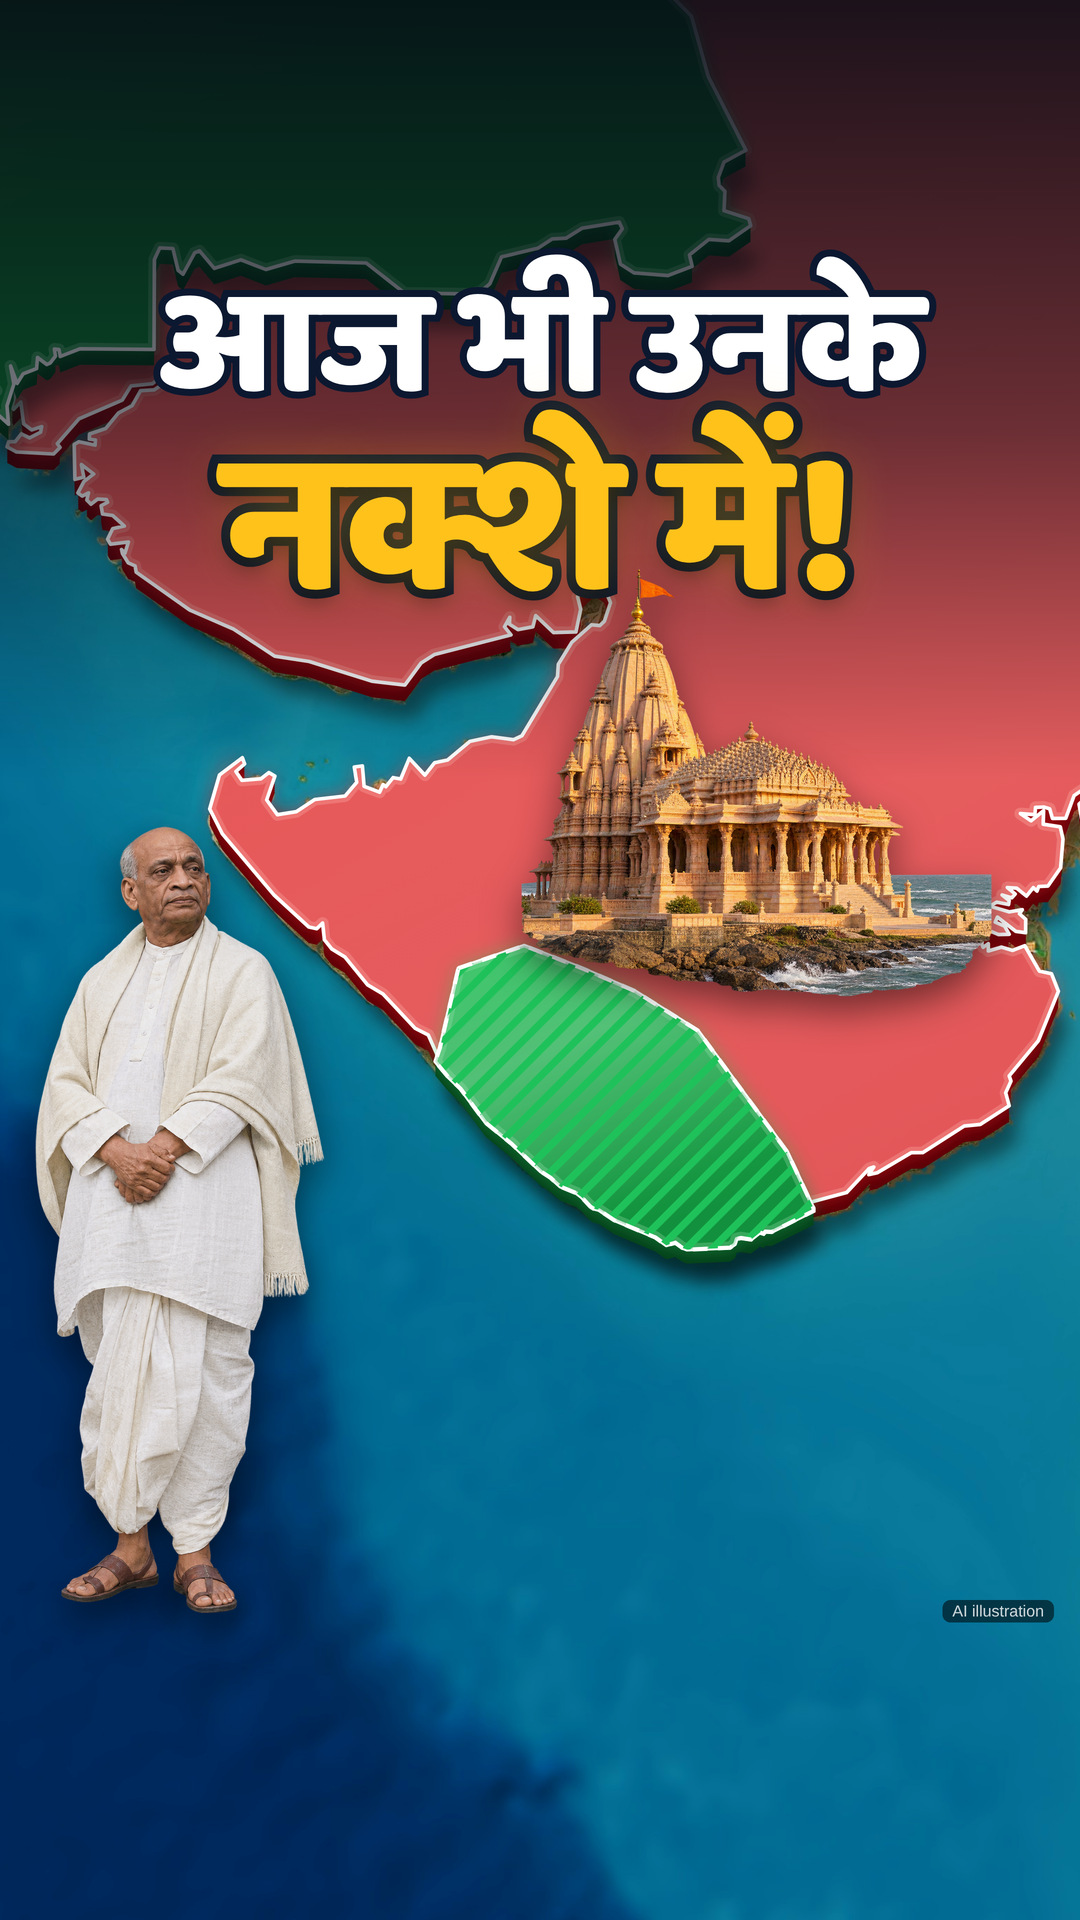
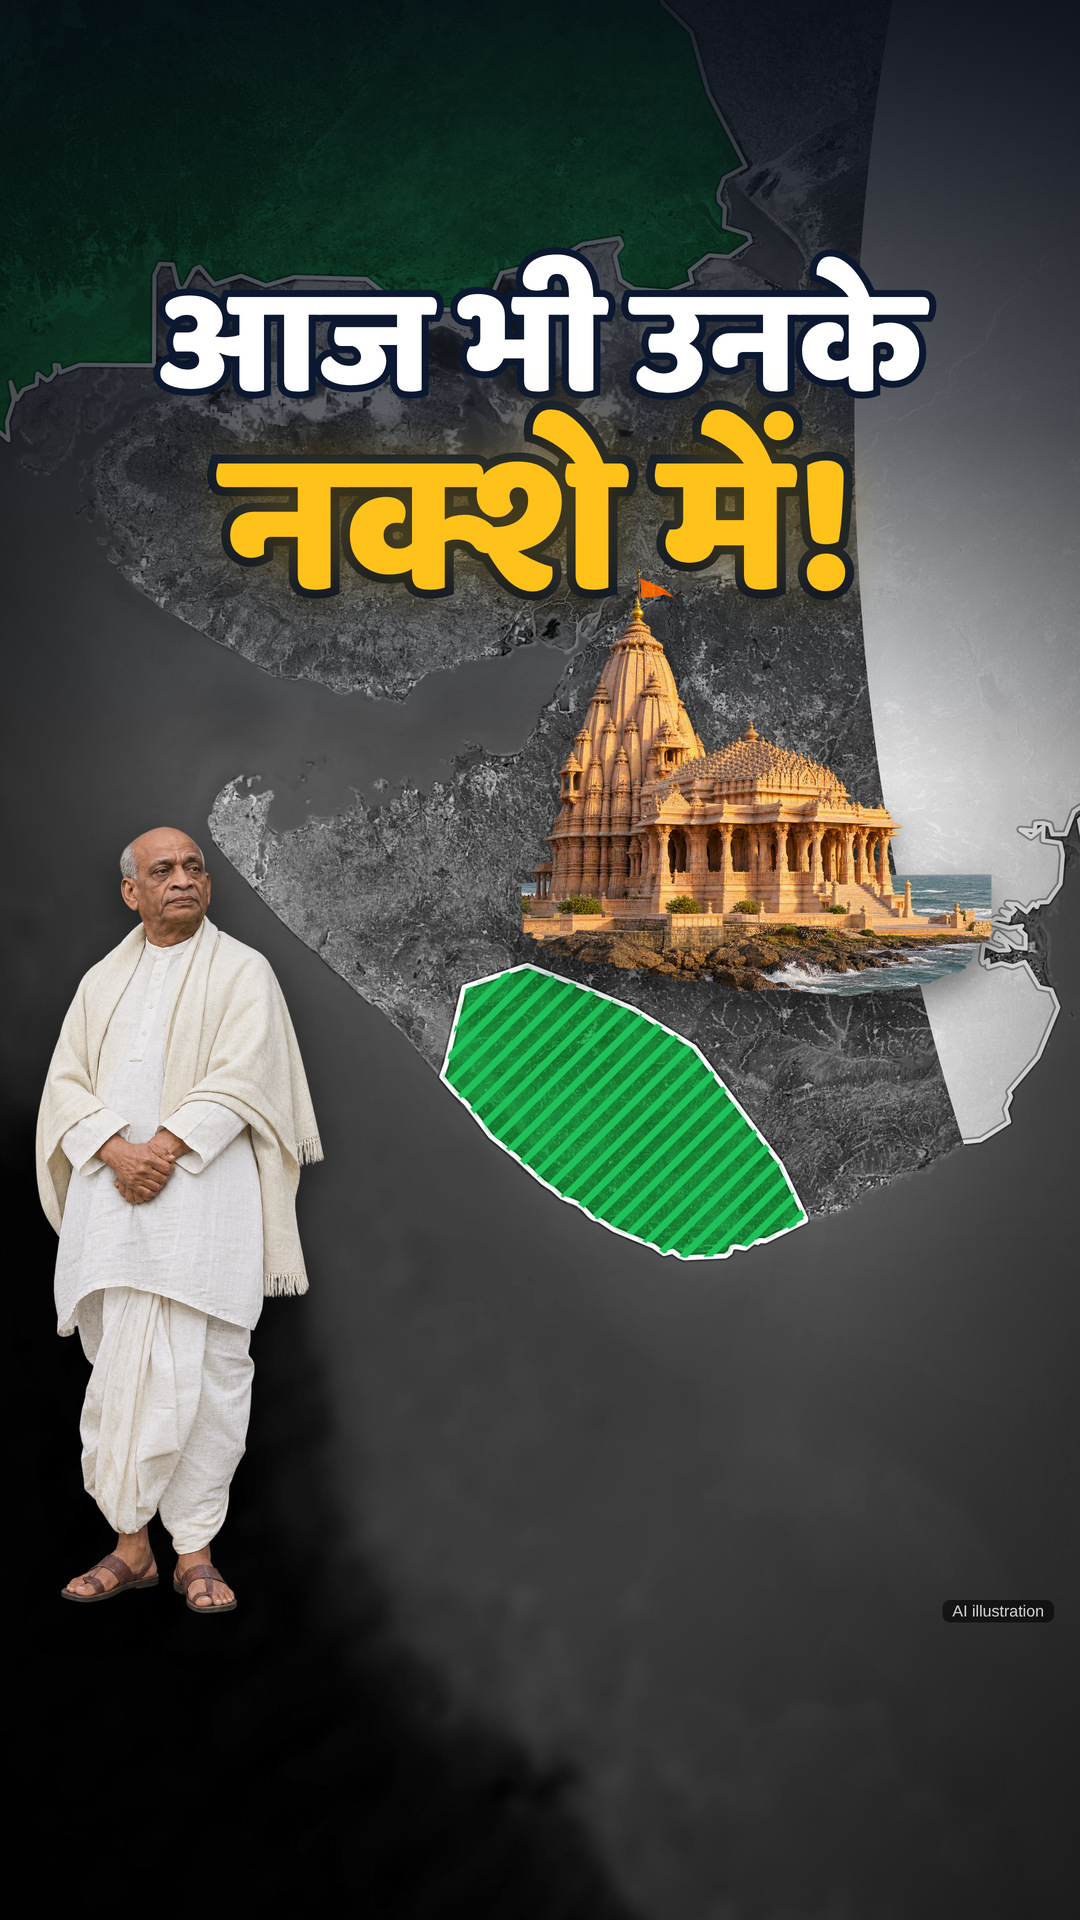
Junagadh v2: thumbnail in the documentary style, upload kit for the 4K30 master
Claude-Session: https://claude.ai/code/session_01DMZ7CFPTajKZajZsT4vn8D

diff --git a/src/junagadh/edit/Cover.tsx b/src/junagadh/edit/Cover.tsx
@@ -3,11 +3,12 @@ import { AbsoluteFill, registerRoot, Composition } from 'remotion';
 import { GEO, merc, ringsD, toS } from './cam';
 import { UI, useFonts } from './font';
 import { MapLayers } from './Map';
-import { Cut, Slab } from './Studio';
+import { Cut } from './Studio';
+import { FlatHL } from './Doc';
 
 /**
- * The cover for YouTube Shorts and Instagram Reels: Gujarat on the satellite map, Junagadh as a raised Pakistan-green
- * slab with the hatched 2020 claim, India red and Pakistan green around it, the creator's new Somnath temple on it and
+ * The cover for YouTube Shorts and Instagram Reels, in the documentary style (Nov 16): Gujarat on the black-and-white
+ * satellite map, India in its tricolour, Pakistan green, Junagadh flat green with the hatched 2020 claim, the creator's new Somnath temple on it and
  * Sardar Patel beside it, and "आज भी उनके नक्शे में!" in the top third. Inside the 3:4 crop.
  * Own entry (not render.tsx), so it never touches the main render's bundle.
  */
@@ -22,14 +23,17 @@ export const JgCover: React.FC = () => {
   const cen = (k: string) => { const r = GEO.countries[k][0]; let a = 0, b = 0; for (const p of r) { a += p[0]; b += p[1]; } return toS(c, [a / r.length, b / r.length]); };
   return (
     <AbsoluteFill style={{ background: '#0E2A55', overflow: 'hidden' }}>
-      <AbsoluteFill style={{ filter: 'contrast(1.08) saturate(1.2) brightness(1.03)' }}><MapLayers c={c} /></AbsoluteFill>
-      <svg width={1080} height={1920} style={{ position: 'absolute', inset: 0 }}>
-        <defs><pattern id="hatchc" width="18" height="18" patternUnits="userSpaceOnUse" patternTransform="rotate(45)"><rect width="18" height="18" fill="rgba(31,163,74,0.25)" /><rect width="7" height="18" fill="#1FC25A" /></pattern></defs>
-        <Slab id="cvInd" t={3} d={ringsD(c, GEO.countries.India)} hue="red" g={1} depth={16} cx={cen('India')[0]} cy={cen('India')[1]} />
-        <Slab id="cvPak" t={3} d={ringsD(c, GEO.countries.Pakistan)} hue="green" g={1} depth={16} cx={cen('Pakistan')[0]} cy={cen('Pakistan')[1]} />
-        <Slab id="cvJg" t={3} d={ringsD(c, GEO.junagadh)} hue="green" g={1} depth={14} cx={jx} cy={jy} s={1.04} />
-        <path d={ringsD(c, GEO.junagadh)} fill="url(#hatchc)" stroke="#fff" strokeWidth={4} strokeDasharray="14 10" transform={`translate(${jx} ${jy - 14}) scale(1.04) translate(${-jx} ${-jy})`} />
-      </svg>
+      <AbsoluteFill style={{ filter: 'grayscale(1) contrast(1.38) brightness(0.8)' }}><MapLayers c={c} /></AbsoluteFill>
+      {(['fill', 'line'] as const).map((pass) => (
+        <svg key={pass} width={1080} height={1920} style={{ position: 'absolute', inset: 0, ...(pass === 'fill' ? { mixBlendMode: 'hard-light' as const } : {}) }}>
+          <FlatHL id="cvInd" d={ringsD(c, GEO.countries.India)} fill="india" g={1} cx={cen('India')[0]} cy={cen('India')[1]} mark={180000 / c.mpp} pass={pass} />
+          <FlatHL id="cvPak" d={ringsD(c, GEO.countries.Pakistan)} fill="pakistan" g={1} cx={cen('Pakistan')[0]} cy={cen('Pakistan')[1]} mark={130000 / c.mpp} pass={pass} />
+          <FlatHL id="cvJg" d={ringsD(c, GEO.junagadh)} fill="pakistan" g={1} cx={jx} cy={jy} stroke={5} pass={pass} />
+          {pass === 'line' && <><defs><pattern id="hatchc" width="18" height="18" patternUnits="userSpaceOnUse" patternTransform="rotate(45)"><rect width="18" height="18" fill="rgba(31,163,74,0.25)" /><rect width="7" height="18" fill="#1FC25A" /></pattern></defs>
+            <path d={ringsD(c, GEO.junagadh)} fill="url(#hatchc)" stroke="#fff" strokeWidth={4} strokeDasharray="14 10" /></>}
+        </svg>
+      ))}
+      <AbsoluteFill style={{ background: 'radial-gradient(ellipse at 50% 46%, rgba(0,0,0,0) 48%, rgba(0,0,0,0.6) 100%)' }} />
       <div style={{ position: 'absolute', left: 0, right: 0, top: 0, height: 780, background: 'linear-gradient(180deg, rgba(5,10,20,0.9) 0%, rgba(5,10,20,0.55) 55%, rgba(5,10,20,0))' }} />
       <div style={{ position: 'absolute', left: 0, right: 0, top: 270, textAlign: 'center', lineHeight: 1.0 }}>
         <Big text="आज भी उनके" size={150} color="#fff" /><br />

diff --git a/exports/junagadh_upload_kit.md b/exports/junagadh_upload_kit.md
@@ -1,10 +1,12 @@
 # Junagadh: upload kit
 
-Upload file: `junagadh_4k60_master.mp4` (4K 60 fps, 2160×3840, 6,672 frames, 1:51; in the repo through Git LFS).
-Raw link: https://github.com/sameerpotdar120-afk/remotion-video-studio/raw/ccr-38fc62dc-jjdmrk/exports/junagadh_4k60_master.mp4
+Upload file: `junagadh_4k30_master.mp4` (v2, 4K 30 fps, 2160×3840, 3,336 frames, 1:51; in the repo through Git LFS).
+v2 (Nov 16) is in the documentary style from the creator's reference: a black-and-white satellite map, flat highlights
+(textured colour on the terrain, flags drawn in code, white outlines), people rising out of the map with name boxes.
+Raw link: https://github.com/sameerpotdar120-afk/remotion-video-studio/raw/ccr-38fc62dc-jjdmrk/exports/junagadh_4k30_master.mp4
 Thumbnail: `junagadh_thumbnail.jpg` (1080×1920) and `junagadh_thumbnail_4k.jpg` (2160×3840), one for YouTube and
-Instagram (JgCover: Gujarat on the satellite map, India red, Pakistan green, Junagadh as a raised green slab with the
-hatched 2020 claim; your new Somnath temple on it and Sardar Patel beside it; "आज भी उनके नक्शे में!" in the top third).
+Instagram (JgCover, v2 style: Gujarat on the black-and-white satellite map, India in its tricolour, Pakistan green, Junagadh flat
+green with the hatched 2020 claim; your new Somnath temple on it and Sardar Patel beside it; "आज भी उनके नक्शे में!" in the top third).
 Inside the 3:4 crop. It pairs with title 1 without repeating its words.
 
 The video is a seamless loop: "और Pakistan का Map आज भी कहता है…" runs into "1947 में Gujarat का एक हिस्सा…", and the last
